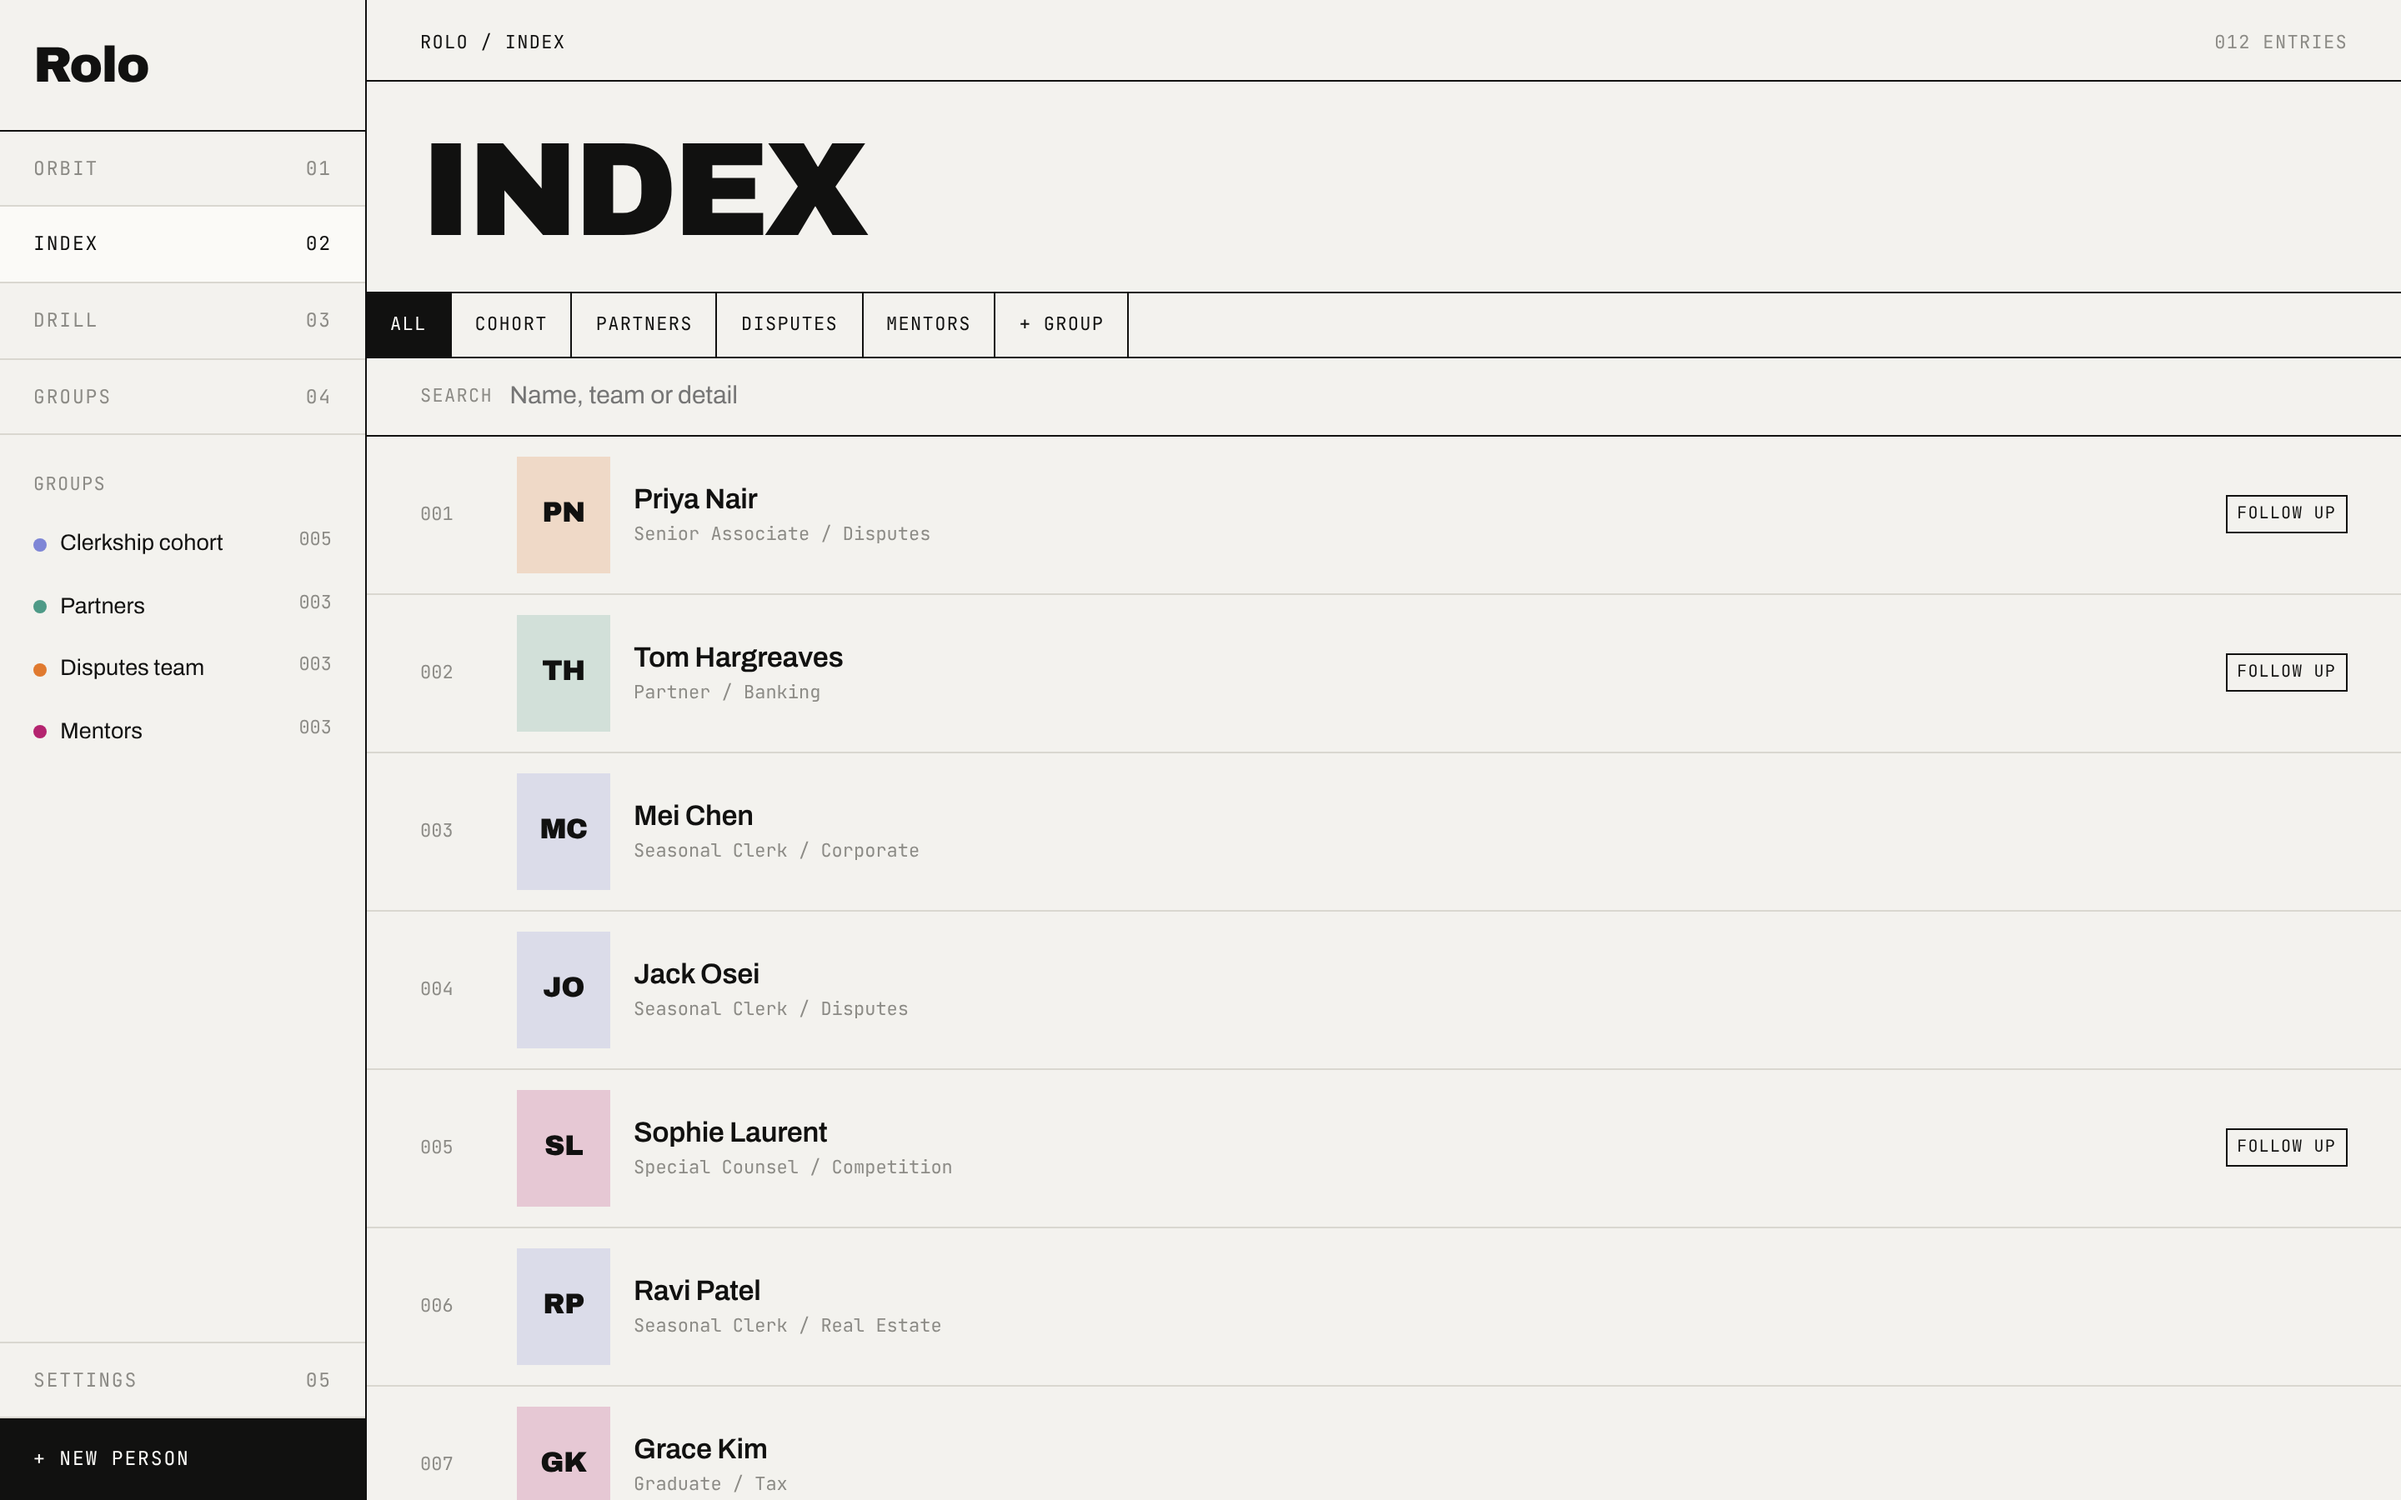
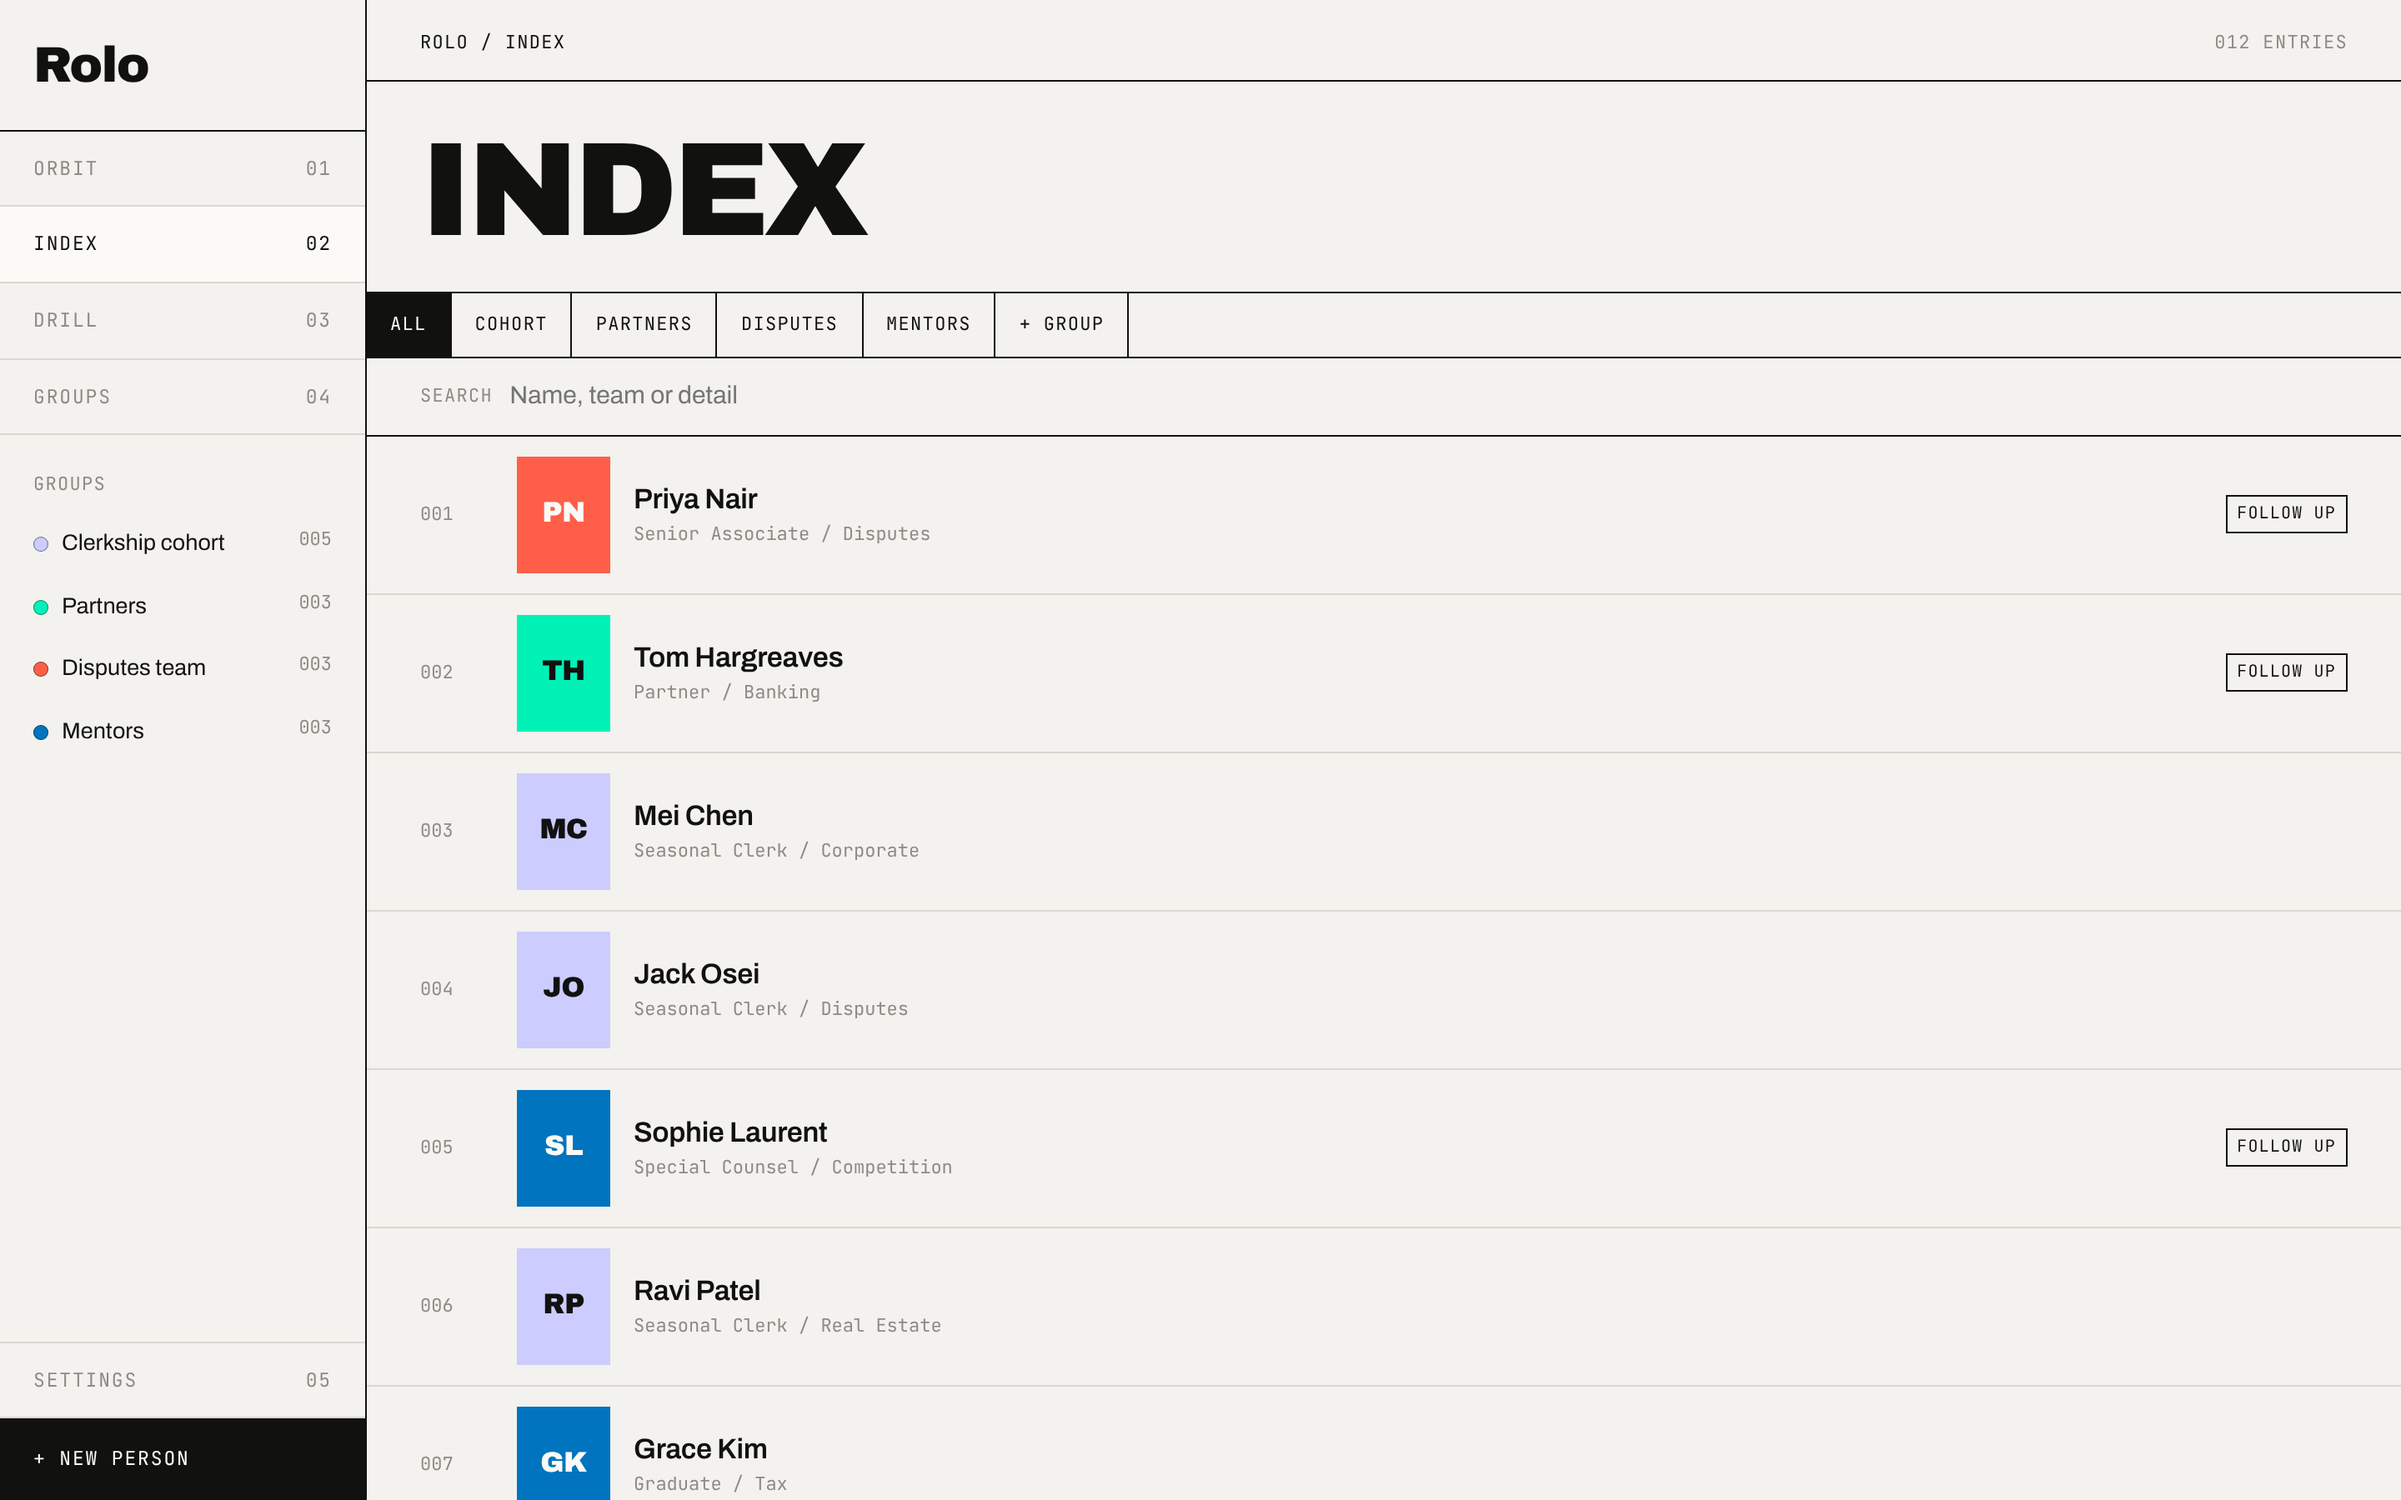
Use brand colours sampled from firm artwork; solid fills with auto-contrast text
Claude-Session: https://claude.ai/code/session_01R71v8Qe5o2c96vbEDfs1Lo

diff --git a/mockup/index.html b/mockup/index.html
@@ -148,10 +148,10 @@ main{min-width:0;padding:0 0 96px}
 .tog i{position:absolute;top:3px;left:3px;width:22px;height:22px;border-radius:50%;background:var(--ink);transition:transform .2s}
 .tog.on{background:var(--ink)}
 .tog.on i{transform:translateX(22px);background:var(--white)}
-.sw{display:inline-block;width:8px;height:8px;border-radius:50%;margin-right:8px;vertical-align:middle}
+.sw{display:inline-block;width:9px;height:9px;border-radius:50%;box-shadow:inset 0 0 0 .5px rgba(17,17,16,.5);margin-right:8px;vertical-align:middle}
 .filters button.on .sw{outline:1px solid var(--white)}
-.swatches{display:flex;flex-wrap:wrap;gap:6px;justify-content:flex-end;max-width:212px;flex:none}
-.swb{width:20px;height:20px;border-radius:50%}
+.swatches{display:flex;flex-wrap:wrap;gap:6px;justify-content:flex-end;max-width:160px;flex:none}
+.swb{width:20px;height:20px;border-radius:50%;box-shadow:inset 0 0 0 .5px rgba(17,17,16,.4)}
 .swb.on{outline:1.5px solid var(--ink);outline-offset:2px}
 .swl{width:36px;height:36px;border-radius:50%;position:relative;overflow:hidden;flex:none;border:1px solid var(--soft)}
 .swl input{position:absolute;inset:-6px;opacity:0;cursor:pointer}
@@ -193,16 +193,18 @@ main{min-width:0;padding:0 0 96px}
 <div class="scrim" id="scrim"><div class="sheet" id="sheet"></div></div>
 
 <script>
-// Firm palette: one colour per Big Six firm (plus two alternates). Hexes are approximations; edit in Settings.
+// Firm palette, sampled from the firms' own brand artwork. Fine-tune in Settings.
 const palette = [
-  {id:'kwm',     firm:'King & Wood Mallesons', name:'Periwinkle',     hex:'#7E86D6'},
-  {id:'kwm2',    firm:'King & Wood Mallesons', name:'Blackcurrant',   hex:'#3E2147'},
-  {id:'apc',     firm:'Ashurst Perkins Coie',  name:'Liberty green',  hex:'#4E9A87'},
-  {id:'ash',     firm:'Ashurst (prior)',       name:'Orange',         hex:'#E07A2F'},
-  {id:'allens',  firm:'Allens',                name:'Magenta',        hex:'#B4246F'},
-  {id:'hsf',     firm:'HSF Kramer',            name:'Slate teal',     hex:'#2F6B7C'},
-  {id:'cu',      firm:'Clayton Utz',           name:'Navy',           hex:'#22385E'},
-  {id:'minter',  firm:'MinterEllison',         name:'Rose',           hex:'#C9577A'},
+  {id:'kwm',    firm:'Mallesons',            name:'Periwinkle',    hex:'#CCCCFE'},
+  {id:'kwm2',   firm:'Mallesons',            name:'Blackcurrant',  hex:'#1C1028'},
+  {id:'kwm3',   firm:'Mallesons',            name:'Violet',        hex:'#4F3479'},
+  {id:'apc',    firm:'Ashurst Perkins Coie', name:'Liberty green', hex:'#00F2B6'},
+  {id:'apc2',   firm:'Ashurst Perkins Coie', name:'Deep teal',     hex:'#002D3B'},
+  {id:'ash',    firm:'Ashurst (prior)',      name:'Coral',         hex:'#FF5F49'},
+  {id:'allens', firm:'Allens',               name:'Blue',          hex:'#0074BF'},
+  {id:'allens2',firm:'Allens',               name:'Magenta',       hex:'#AF005F'},
+  {id:'hsf',    firm:'HSF Kramer',           name:'Teal',          hex:'#40AAB8'},
+  {id:'hsf2',   firm:'HSF Kramer',           name:'Navy',          hex:'#1B3E78'},
 ];
 const P = id => palette.find(x=>x.id===id);
 (JSON.parse(localStorage.getItem('rolo-palette')||'[]')).forEach(([id,h])=>{ if(P(id)) P(id).hex=h });
@@ -234,10 +236,13 @@ const G = id => groups.find(g=>g.id===id);
 const inG = (g) => people.filter(p=>p.groups.includes(g));
 // colour mode helpers: in B&W mode everything falls back to neutral greys
 const gc = p => G(p.groups[0]).c;
-const tint = p => state.colour ? gc(p)+'33' : 'var(--faint)';
+// pick ink or white text depending on how light the brand colour is
+const lum = h => { const [r,g,b]=[1,3,5].map(i=>parseInt(h.substr(i,2),16)/255); return .2126*r+.7152*g+.0722*b };
+const on = h => lum(h)>.55 ? '#111110' : '#FBFAF7';
+const tint = p => state.colour ? `${gc(p)};color:${on(gc(p))}` : 'var(--faint)';
 // solid tint: blend a group colour into the paper colour (keeps orbit lines from showing through)
 const mix = (hex,t) => '#'+[1,3,5].map(i=>Math.round(parseInt(hex.substr(i,2),16)*t+[0xF3,0xF2,0xEE][(i-1)/2]*(1-t)).toString(16).padStart(2,'0')).join('');
-const deep = p => state.colour ? gc(p) : 'var(--ink)';
+const deep = p => state.colour ? `${gc(p)};color:${on(gc(p))}` : 'var(--ink)';
 const sw = g => state.colour ? `<i class="sw" style="background:${g.c}"></i>` : '';
 function setHex(id,h){ P(id).hex=h; localStorage.setItem('rolo-palette',JSON.stringify(palette.map(x=>[x.id,x.hex]))); render() }
 function setGroupColour(gid,pid){ groups.find(g=>g.id===gid).pc=pid; render() }
@@ -272,7 +277,8 @@ function orbitSVG(){
     s+=`<line x1="${C+34*Math.cos(a)}" y1="${C+34*Math.sin(a)}" x2="${C+204*Math.cos(a)}" y2="${C+204*Math.sin(a)}" stroke="#D9D7D0" stroke-width=".8"/>`;
     const m=a+step/2, lx=C+201*Math.cos(m), ly=C+201*Math.sin(m);
     const dim = state.filter!=='all'&&state.filter!==g.id;
-    s+=`<text x="${lx}" y="${ly}" font-size="9" letter-spacing=".8" text-anchor="middle" dominant-baseline="middle" fill="${state.colour?g.c:'#111110'}" opacity="${dim?.25:1}" style="cursor:pointer" onclick="state.filter=state.filter==='${g.id}'?'all':'${g.id}';render()">${g.short.toUpperCase()}</text>`;
+    if(state.colour) s+=`<circle cx="${lx-g.short.length*3.1-8}" cy="${ly}" r="3.5" fill="${g.c}" stroke="#111110" stroke-width=".4" opacity="${dim?.25:1}"/>`;
+    s+=`<text x="${lx}" y="${ly}" font-size="9" letter-spacing=".8" text-anchor="middle" dominant-baseline="middle" fill="#111110" opacity="${dim?.25:1}" style="cursor:pointer" onclick="state.filter=state.filter==='${g.id}'?'all':'${g.id}';render()">${g.short.toUpperCase()}</text>`;
   });
   s+=`<circle cx="${C}" cy="${C}" r="24" fill="#111110"/><text x="${C}" y="${C+1}" font-size="9" letter-spacing="1" text-anchor="middle" dominant-baseline="middle" fill="#FBFAF7">YOU</text>`;
   groups.forEach((g,gi)=>{
@@ -283,8 +289,8 @@ function orbitSVG(){
         const x=C+R[ring]*Math.cos(a), y=C+R[ring]*Math.sin(a);
         const dim = state.filter!=='all'&&!p.groups.includes(state.filter);
         s+=`<g class="node ${dim?'dim':''}" onclick="openPerson(${p.id})">
-          <circle class="face" cx="${x}" cy="${y}" r="15" fill="${state.colour?mix(gc(p),.2):'#FBFAF7'}" stroke="${state.colour?gc(p):'#111110'}" stroke-width="1"/>
-          <text class="ini" x="${x}" y="${y+.5}" font-size="9" font-family="Archivo Black, sans-serif" text-anchor="middle" dominant-baseline="middle" fill="#111110">${ini(p)}</text>
+          <circle class="face" cx="${x}" cy="${y}" r="15" fill="${state.colour?gc(p):'#FBFAF7'}" stroke="#111110" stroke-width="${state.colour?.6:1}"/>
+          <text class="ini" x="${x}" y="${y+.5}" font-size="9" font-family="Archivo Black, sans-serif" text-anchor="middle" dominant-baseline="middle" fill="${state.colour?on(gc(p)):'#111110'}">${ini(p)}</text>
           ${p.due?`<circle cx="${x+11}" cy="${y-11}" r="3.6" fill="#111110" stroke="#F3F2EE" stroke-width="1.5"/>`:''}
           <text x="${x}" y="${y+26}" font-size="8" text-anchor="middle" fill="#8C8B86">${p.first.toUpperCase()}</text></g>`;
       });
